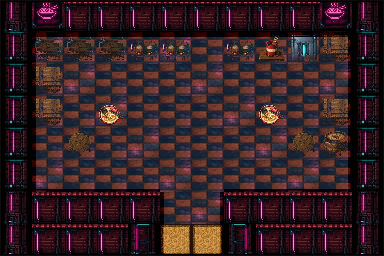
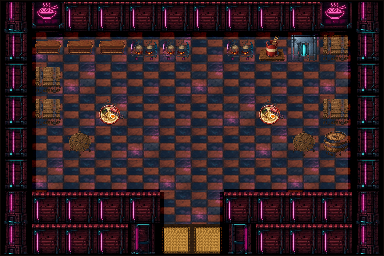
Tea house: redesign floor and props (keep bed/plants)
Warm honey oak floor tiles without black gutters; hard-NN counter, urn,
table, cushion, screen, nightstand, rug, and doormat. Bed pair and cabin
plant tiles left unchanged. Tea loads after cabin so hub rug (63) wins.

Changed region(s): [[0.4062, 0.875, 0.5938, 1.0], [0.0938, 0.1562, 0.3438, 0.25]]

diff --git a/tools/interiors/assemble_tea_gen.py b/tools/interiors/assemble_tea_gen.py
@@ -41,6 +41,7 @@ TABLE, CUSHION = 44, 45
 BED_H, BED_F = 46, 47
 SCREEN = 49
 NIGHT = 61
+RUG = 63
 W_TEA_S, W_TEA_C = 70, 75
 # Tall cutaway companions + continuous N-wall strip (16 cols).
 W_TEA_S_MID, W_TEA_S_BASE = 176, 177
@@ -238,15 +239,34 @@ def slice_walls_from_strips(face_src: Path, side_src: Path) -> dict[int, Image.I
 
 
 def slice_floor(src: Path) -> dict[int, Image.Image]:
+    """Warm plank variants that fully fill each 32×32 (no black gutter strips)."""
     raw = Image.open(src).convert("RGBA")
-    side = min(raw.size)
-    left = (raw.width - side) // 2
-    top = (raw.height - side) // 2
-    crop = raw.crop((left, top, left + side, top + side))
+    crop = raw.crop(find_content_box(raw, dark=18))
+    # Force a filled plank grid — content-box may be wide; square-crop center.
+    side = min(crop.size)
+    left = (crop.width - side) // 2
+    top = (crop.height - side) // 2
+    crop = crop.crop((left, top, left + side, top + side))
     grid = crop.resize((T * 4, T * 2), Image.Resampling.NEAREST)
-    a = grid.crop((0, 0, T, T))
-    b = grid.crop((T, 0, T * 2, T))
-    return {WOOD: opaque_tile(a), WOOD2: opaque_tile(b)}
+    a = opaque_tile(grid.crop((0, 0, T, T)))
+    b = opaque_tile(grid.crop((T, 0, T * 2, T)))
+    # Guarantee every pixel opaque (AI sheets sometimes leave black gutters).
+    for tile in (a, b):
+        px = tile.load()
+        for y in range(T):
+            for x in range(T):
+                r, g, b_, al = px[x, y]
+                if al < 255 or (r < 20 and g < 20 and b_ < 20):
+                    # Sample nearest non-void neighbor.
+                    fill = (120, 80, 45, 255)
+                    for yy in range(max(0, y - 2), min(T, y + 3)):
+                        for xx in range(max(0, x - 2), min(T, x + 3)):
+                            rr, gg, bb, aa = px[xx, yy]
+                            if aa >= 255 and not (rr < 20 and gg < 20 and bb < 20):
+                                fill = (rr, gg, bb, 255)
+                                break
+                    px[x, y] = fill
+    return {WOOD: a, WOOD2: b}
 
 
 def clear_dark_bg(im: Image.Image) -> Image.Image:
@@ -287,8 +307,9 @@ def mat_tile(src: Path) -> Image.Image:
 
 
 def assemble_props() -> dict[int, Image.Image]:
-    # Plant (48) / rug (63): cabin hard-pixel AI overrides win in build_rooms
-    # load order — do not reintroduce soft tea stamps for those shared ids.
+    # Keep bed sources unchanged when only redesigning floor/props.
+    # Plant (48) stays cabin's (tea does not emit 48). Rug (63) is tea's —
+    # build_rooms loads tea after cabin so the hub rug wins without touching plants.
     mapping = {
         COUNTER: "tea_counter.jpg",
         URN: "tea_urn.jpg",
@@ -296,6 +317,7 @@ def assemble_props() -> dict[int, Image.Image]:
         CUSHION: "tea_cushion.jpg",
         SCREEN: "tea_screen.jpg",
         NIGHT: "tea_nightstand.jpg",
+        RUG: "tea_rug.jpg",
     }
     out = {tid: prop_tile(GEN / name, tid) for tid, name in mapping.items()}
     bed_src = GEN / "tea_bed_full.jpg"

diff --git a/tools/interiors/build_rooms.py b/tools/interiors/build_rooms.py
@@ -800,13 +800,14 @@ SOLID_PROPS = {
 def load_gen_overrides() -> dict[int, Image.Image]:
     """Cursor-gen tiles from assemble_*_gen.py under gen_src/<room>/tiles/.
 
-    Room folders load in a fixed order; later rooms win on shared tile ids so
-    cabin hard-pixel plant/rug (48/63) override older soft tea stamps.
+    Room folders load in a fixed order; later rooms win on shared tile ids.
+    Cabin wins plant (48). Tea loads after cabin and emits rug (63) so the hub
+    gets the tea rug without tea rewriting plants or beds.
     """
     out: dict[int, Image.Image] = {}
     if not GEN_SRC.is_dir():
         return out
-    room_order = {"archive": 0, "grotto": 1, "noodle": 2, "tea": 3, "cabin": 4}
+    room_order = {"archive": 0, "grotto": 1, "noodle": 2, "cabin": 3, "tea": 4}
 
     def _key(path: Path) -> tuple[int, str]:
         room = path.parent.parent.name

diff --git a/tools/interiors/gen_src/tea/README.md b/tools/interiors/gen_src/tea/README.md
@@ -21,6 +21,15 @@ intermediates are **not** written. Playbook:
 - Strip ids: top `128–143`, mid `144–159`, base `160–175`; sides `70/176/177`
   (+ east flips `178–181`)
 
+## Floor / props
+
+- `tea_floor_sheet.jpg` — warm honey oak planks (full-bleed; assemble fills
+  gutters so tiles have no black seams)
+- Props (hard NN): counter, urn, table, cushion, screen, nightstand, rug, mat
+- **Keep** continuous bed (`tea_bed_full.jpg`) and cabin plant (48) — tea does
+  not emit plant tiles
+- Rug (63): tea loads after cabin in `build_rooms` so the hub rug wins
+
 ## Exterior boundary
 
 Do **not** remake `assets/images/maps/buildings/tea_house.png` while iterating
